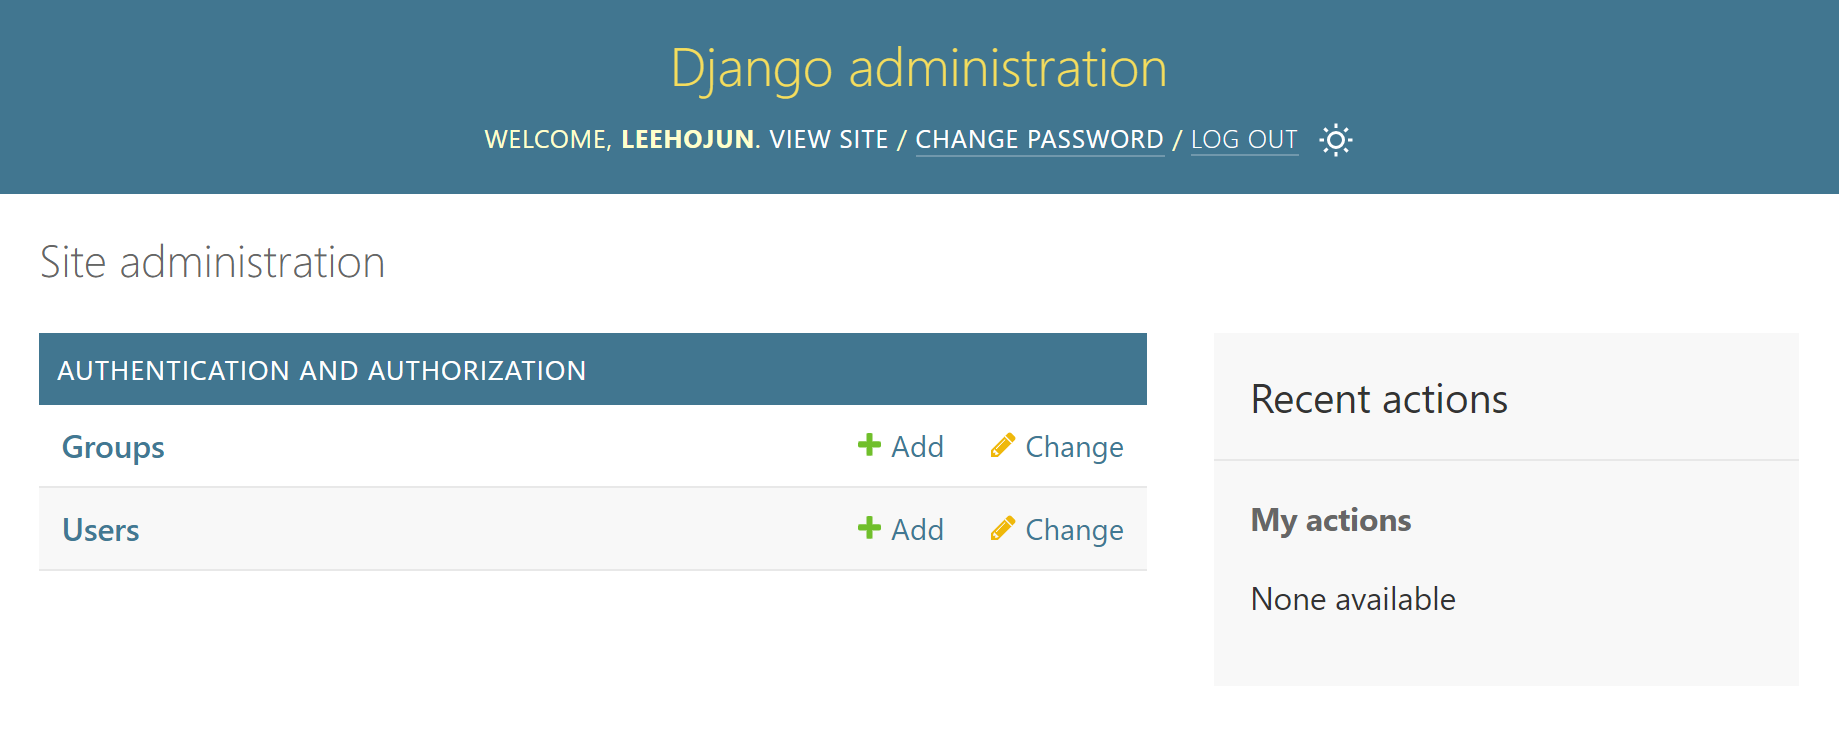
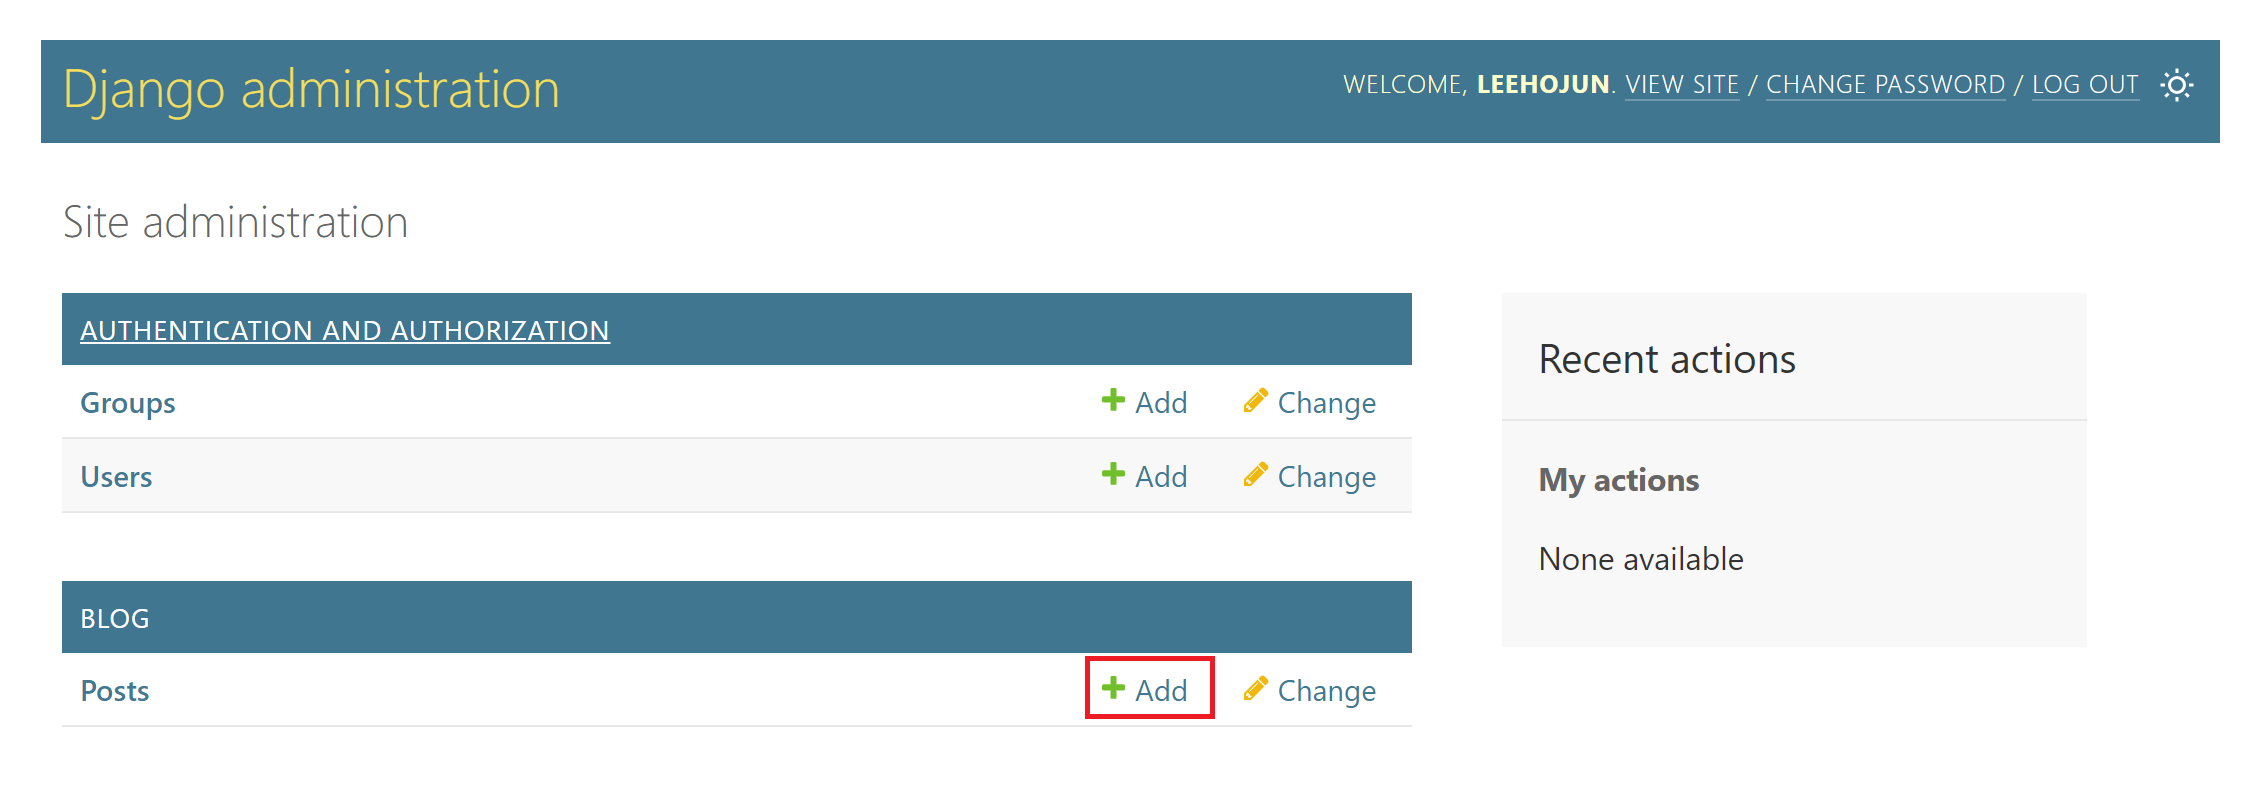
📝django 베이스캠프 ch03-1 내용추가 및 수정 마무리, 이미지 추가

diff --git a/_md/basecamp-django/chapter03/03-1.md b/_md/basecamp-django/chapter03/03-1.md
@@ -1,15 +1,15 @@
 ---
 chapter: Model과 DataBase
-title: 모델(model) 실습
+title: 모델(Model) 실습
 date: 2024-07-22
 ---
-장고에서 모델은 데이터베이스의 구조를 정의하고 데이터를 관리하는 핵심 요소입니다. 모델은 우리가 다루는 데이터의 형태를 파이썬 클래스로 표현한 것으로, 데이터베이스 테이블의 설계도라고 볼 수 있습니다. 모델을 사용하면 복잡한 데이터베이스 작업을 쉽게 할 수 있어요. 글을 저장하거나, 모든 글 목록을 가져오거나, 특정 글을 수정하는 등의 작업을 간단한 파이썬 코드로 할 수 있습니다. 모델 실습을 통해 우리는 데이터의 구조를 정의하고, 이를 데이터베이스와 연결하는 방법을 배우게 됩니다. 이제 실습을 통해 모델을 직접 만들고 사용해보면서, 장고에서 데이터를 어떻게 구조화하고 관리하는지 알아봅시다.
+장고에서 **모델**(Model)은 데이터베이스의 구조를 정의하고 데이터를 관리하는 핵심 요소입니다. 
+모델은 우리가 다루는 데이터를 파이썬 클래스로 표현한 것으로, 데이터베이스 테이블의 설계도라고 볼 수 있습니다.
+모델을 사용하면 복잡한 데이터베이스 작업을 쉽게 할 수 있습니다. 글을 저장하거나, 모든 글 목록을 가져오거나, 특정 글을 수정하는 등의 작업을 간단한 파이썬 코드로 할 수 있습니다. 모델 실습을 통해 우리는 데이터의 구조를 정의하고, 이를 데이터베이스와 연결하는 방법을 배우게 됩니다. 이제 실습으로 모델을 직접 만들고 사용해 보면서, 장고에서 데이터를 어떻게 구조화하고 관리하는지 알아봅시다.
 
 # 1. 개발 환경 설정
 
-개발 환경 설정이 익숙해지셨다면, 아래 코드를 이용해서 단시간에 환경 세팅을 마무리 할 수 있습니다.
-아래 코드를 복사해서, 작업할 폴더의 터미널에 `shift + insert`를 하면 
-자동으로 설치가 완료 됩니다. 마지막 코드에서는 `enter`를 입력해주어야합니다.
+개발 환경 설정이 익숙해지셨다면, 아래 코드를 이용해서 단시간에 환경 설정을 마무리할 수 있습니다. 아래 코드를 복사해서, 작업할 폴더의 터미널에 shift + insert를 하면 자동으로 설치가 완료됩니다. 마지막 코드에서는 enter를 입력해 주어야 합니다.
 
 ```bash
 mkdir db
@@ -22,12 +22,11 @@ python manage.py migrate
 python manage.py startapp main
 python manage.py startapp blog
 ```
-이 실습에서는 mysite폴더 대신 `db` 폴더를 생성하고, `pillow` 라이브러리를 추가합니다. 
-`pillow`는 이 실습에 포함되어 있는 이미지 데이터를 다루기 위해서 필요한 라이브러리 입니다.
-위 코드를 통해서 앱을 생성하는 것까지 완료 할 수 있습니다.
+이 실습에서는 mysite 폴더 대신 `db` 폴더를 생성하고, `pillow` 라이브러리를 추가합니다. 
+`pillow`는 이 실습에 포함되어 있는 이미지 데이터를 다루기 위해서 필요한 라이브러리입니다.
+위 코드를 통해서 앱을 생성하는 것까지 완료할 수 있습니다.
 
 # 2. 설정 파일 수정
-
 `tutorialdjango/settings.py` 파일을 열고 `ALLOWED_HOSTS`, `INSTALLED_APPS`를 수정해줍니다.
 
 ```python
@@ -45,7 +44,7 @@ INSTALLED_APPS = [
 'blog/'
 'blog/<int:pk>/'
 ```
-위와 같은 url구조를 위해, 프로젝트 레벨과 앱 레벨의 urls.py 파일을 설정합니다.
+위와 같은 url 구조를 위해, 프로젝트 레벨과 앱 레벨의 urls.py 파일을 설정합니다.
 1. `tutorialdjango/urls.py` 파일을 다음과 같이 수정합니다.
 ```python
 #tutorialdjango > urls.py
@@ -59,7 +58,7 @@ urlpatterns = [
     path("blog/", include("blog.urls")),
 ]
 ```
-2. blog앱에 `blog/urls.py` 파일을 생성하고 다음 내용을 추가합니다.
+2. blog 앱에 blog/urls.py 파일을 생성하고 다음 내용을 추가합니다.
 ```python
 # blog > urls.py
 from django.urls import path
@@ -102,7 +101,7 @@ TEMPLATES = [
     },
 ]
 ```
-2. `templates/blog/`폴더를 만들고, blog_list.html와 blog_detail.html 파일을 생성합니다. 각 html파일에 아래 코드를 입력해주세요.
+2. `templates/blog/`폴더를 만들고, blog_list.html와 blog_detail.html파일을 생성합니다. 각 html파일에 아래 코드를 입력해주세요.
 - 블로그 목록 페이지
 ```html
 <!--templates > blog > blog_list.html -->
@@ -137,12 +136,8 @@ from django.db import models
 class Post(models.Model):
     title = models.CharField(max_length=100) #글의 제목 (최대 100자)
     content = models.TextField() #글의 내용
-    main_image = models.ImageField(upload_to='blog/', blank=True, null=True)#메인 이미지 (선택사항)
     created_at = models.DateTimeField(auto_now_add=True)#글 작성 시간 (자동으로 현재 시간 저장)
     updated_at = models.DateTimeField(auto_now=True)#글 수정 시간 (수정할 때마다 자동으로 갱신)
-
-    def __str__(self):
-        return self.title
 ```
 Django에서 모델(Model)은 데이터베이스의 구조를 Python 클래스로 표현한 것입니다. 
 위의 class코드를 데이터베이스의 표로 바꿔보면, 아래와 같습니다.
@@ -175,7 +170,16 @@ Django에서 데이터베이스를 변경할 때는 `makemigrations`와 `migrate
 
 # 8. 관리자 페이지 설정
 Django의 `admin 페이지`는 웹사이트의 데이터와 설정을 관리할 수 있는 내장 인터페이스입니다. 개발자와 관리자가 데이터베이스 내용을 쉽게 조작하고 웹사이트를 효율적으로 관리할 수 있게 해줍니다. 이런 admin 페이지를 사용하기 위해서는 슈퍼유저라는 관리자 계정이 필요합니다. `슈퍼유저(Superuser)`는 Django 프로젝트의 관리자 권한을 가진 특별한 사용자입니다. 슈퍼 유저는 관리자 페이지에 접근할 수 있으며, **데이터베이스의 모든 정보를 조회, 생성, 수정, 삭제할 수 있는 권한**을 갖습니다. 그러니, 우리는 수퍼유저 계정의 **보안에 각별히 주의**해야 하며, 프로젝트 관리자만이 이 계정 정보를 알고 있어야 합니다.
-1. 아래 명령어를 입력해 관리자 계정을 생성합니다.
+
+1. `blog/admin.py` 파일에 다음 내용을 추가해, admin페이지를 수정합니다. admin 페이지에서 Post 모델을 관리할 수 있도록 하는 것입니다.
+```python
+#blog > admin.py
+from django.contrib import admin
+from .models import Post
+
+admin.site.register(Post)
+```
+2. 아래 명령어를 입력해 관리자 계정을 생성합니다.
 ```bash
 python manage.py createsuperuser
 ```
@@ -183,10 +187,49 @@ python manage.py createsuperuser
 `사용자 이름(Username)`, `이메일 주소(Email address)`, `비밀번호(Password)`, `비밀번호 확인(Password(again))`을 입력합니다.
 :::div{.callout}
 비밀번호를 입력할 때 보안을 위해서 화면에 아무것도 표시되지 않습니다. 화면에 뜨지 않더라도 그냥 입력하시면 됩니다. 너무 간단한 비밀번호는 거부될 수 있습니다.
+:::figure
 ::img{alt="" src="/images/basecamp-django/chapter03/01-2.png"}
+::figcaption[관리자 계정 생성 예시]
 :::
-2. `blog/admin.py` 파일에 다음 내용을 추가해, admin페이지를 수정합니다. admin 페이지에서 Post 모델을 관리할 수 있도록 하는 것입니다.
+
+3. 서버를 실행한 후 admin 페이지에 접속해서 방금 생성한 `슈퍼유저 계정`을 이용해 로그인을 합니다.
+4. admin 페이지에서 Add 버튼을 눌러 게시물을 3개 만들어주세요.
+::img{alt="" width="1100" src="/images/basecamp-django/chapter03/01-4.png"}
+5. 우리가 만든 게시글을 목록으로 볼 수 있습니다.
+::img{alt="" src="/images/basecamp-django/chapter03/01-6.png"}
+
+## 8.1 모델 수정
+작성한 게시글 목록을 보면, **목록에 적혀있는 제목들이 우리가 작성한 제목이 아닙니다.** 
+Django는 우리가 작성한 내용들 중에서 어떤 정보를 보여줘야 할지 모릅니다. 그래서 "Post object (1)", "Post object (2)"처럼 의미 없는 이름을 보여줍니다.
+우리가 원하는 건 게시글의 제목을 보는 것입니다. 이때 우리는 `__str__`메서드를 사용할 수 있습니다.
 ```python
+def __str__(self):
+    return self.title
+```
+Django는 게시물 목록을 볼 때 `__str__`메서드를 소환해서, 게시물을 어떻게 보여줄지 결정합니다.
+위 코드는 Django에게 게시글을 목록에 보여줄 때는 `title`을 사용하라고 설정하는 것입니다.
+`self.title` 뿐만 아니라 단순 문자열이나, f-string 등을 사용해 반환하라고 시킬 수 있습니다.
+아래는 수정한 models.py 파일입니다.
+```python
+from django.db import models
+
+class Post(models.Model):
+    title = models.CharField(max_length=100) #글의 제목 (최대 100자)
+    content = models.TextField() #글의 내용
+    created_at = models.DateTimeField(auto_now_add=True)#글 작성 시간 (자동으로 현재 시간 저장)
+    updated_at = models.DateTimeField(auto_now=True)#글 수정 시간 (수정할 때마다 자동으로 갱신)
+
+    def __str__(self):
+        return self.title
+```
+models.py를 수정하면 아래 이미지처럼 원하는 데로 우리가 작성한 제목이 목록에 보입니다.
+::img{alt="" src="/images/basecamp-django/chapter03/01-7.png"}
+
+## 8.2 관리자 페이지 수정
+관리자페이지는 사용자가 원하는 데로, 커스터마이징을 할 수 있습니다.
+아래 코드로 admin.py 파일을 수정해 줍니다.
+```python
+# blog > admin.py
 from django.contrib import admin
 from .models import Post
 
@@ -195,84 +238,84 @@ class PostAdmin(admin.ModelAdmin):
 
 admin.site.register(Post, PostAdmin)
 ```
-3. 서버를 실행한 후 admin 페이지에 접속해서 방금 생성한 슈퍼유저 계정을 이용해 로그인을 합니다.
-::img{alt="" width="550" src="/images/basecamp-django/chapter03/01-3.png"}
-<!-- admin 페이지 이미지 -->
-4. admin 페이지에서 게시물을 3개 만들어주세요.
-<!-- 게시글 추가 이미지 -->
+기존 게시글 목록에서는 제목만 볼 수 있었습니다. 하지만 위 코드로 수정하게 되면, 제목뿐만이 아니라, 게시물 번호, 작성날짜, 수정날짜를 목록에서 볼 수 있습니다.
+각 코드에 대해서 간단히 설명하면,
+1. `PostAdmin`이라는 커스텀 관리자 클래스를 정의합니다. `admin.ModelAdmin`을 상속받아 Django의 기본 관리 기능을 그대로 가져오면서, 우리가 원하는 기능을 더할 수 있습니다.
+2. `admin.ModelAdmin`의 `list_display` 속성을 사용합니다. list_display 속성은 관리자 페이지에서 목록에 보여질 필드를 지정할 수 있습니다.
+보여질 필드를 지정했기 때문에 이제 `id`, `title`, `created_at`, `updated_at`을 볼수 있습니다.
+3. `admin.site.register(Post, PostAdmin)`는 django 관리자 사이트에 `Post`모델을 등록하고, 이 모델에 대한 설정을 `PostAdmin` 클래스로 사용하라고 지정하는 것입니다.
 
-# 9. 기능 추가
+아래는 위의 과정을 간단하게 시각화 한 것입니다.
+::img{alt="" src="/images/basecamp-django/chapter03/01-8.png"}
+`admin.ModelAdmin(상속받은 기본 클래스)`과 `list_display(속성 커스텀 설정)`가 결합되어 `PostAdmin`을 만듭니다.
+`admin.site.register`함수를 통해 `Post`모델과 `PostAdmin`클래스가 결합되어 admin페이지로 보내집니다.        
+::img{alt="" src="/images/basecamp-django/chapter03/01-9.png"}
+코드를 수정했을 때 보여지는 화면입니다. ID와 제목, 생성날짜와 수정날짜가 보이는 것을 확인할 수 있습니다.
 
-## 9.1 게시물 생성
-urls.py와 views.py를 수정하여 게시물 생성 기능을 추가합니다.
+
+# 9. 모델 사용하기
+모델의 내용을 템플릿에서 보여줄 수 있게 View와 템플릿을 수정합니다.
+- blog > view.py
 ```python
-#blog > urls.py
-path("create/<str:title>/", views.blog_create, name="blog_create"),
-```
-```python
-#blog > views.py
-def blog_create(request, title):
-    contents = f"hello world {title}"
-    Post.objects.create(title=title, content=contents)
-    return redirect("blog_list")
-```
-## 9.2 게시물 삭제
-urls.py와 views.py를 수정하여 게시물 삭제 기능을 추가합니다.
-```python
-# blog > urls.py
-path("delete/<int:pk>/", views.blog_delete, name="blog_delete"),
-```
-```python
-#blog > views.py
-def blog_delete(request, pk):
-    post = Post.objects.get(pk=pk)
-    post.delete()
-    return redirect("blog_list")
-```
-## 9.3 이미지 업로드
-models.py에 이미지 필드를 추가하고, settings.py와 urls.py를 수정합니다.
-```python
-#blog > models.py
-main_image = models.ImageField(upload_to='blog/', blank=True, null=True)
-```
-```python
-#tutorialdjango > settings.py
-MEDIA_URL = "/media/"
-MEDIA_ROOT = BASE_DIR / "media"
-```
-```python
-# tutorialdjango > urls.py
-from django.conf import settings
-from django.conf.urls.static import static
-urlpatterns += static(settings.MEDIA_URL, document_root=settings.MEDIA_ROOT)
-```
-blog_detail.html에 이미지 표시 로직을 추가하고, blog_list.html에 검색 폼을 추가합니다.
-```html
-<!-- blog_detail.html -->
-{% if object.main_image %}
-    <img src="{{ object.main_image.url }}" alt="">
-{% endif %}
-```
-```html
-<!-- blog_list.html -->
-<form action="" method="get">
-    <input name="q" type="search">
-    <button type="submit">검색</button>
-</form>
-```
-## 9.4 검색 기능
-views.py의 blog_list 함수에 검색 로직을 추가합니다.
-```python
-#blog > views.py
-from django.db.models import Q
+from django.shortcuts import render
+from .models import Post #사용할 모델을 불러오는 코드입니다.
+
+
 def blog_list(request):
-    if request.GET.get("q"):
-        q = request.GET.get("q")
-        blogs = Post.objects.filter(
-            Q(title__icontains=q) | Q(content__icontains=q)
-        ).distinct()
-    else:
-        blogs = Post.objects.all()
-    context = {"object_list": blogs}
+    blogs = Post.objects.all()
+    context = {
+        "object_list": blogs,
+    }
     return render(request, "blog/blog_list.html", context)
+
+def blog_detail(request, pk):
+    blogs = Post.objects.get(pk=pk)
+    context = {
+        "object": blogs,
+    }
+    return render(request, "blog/blog_detail.html", context)
 ```
+- templates > blog > blog_list.html
+```html
+<!DOCTYPE html>
+<html lang="ko">
+<head>
+    <meta charset="UTF-8">
+</head>
+<body>
+    <h1>게시판</h1>
+    <ul>
+        {% for post in object_list %}
+            <li>
+                <a href="{% url 'blog_detail' post.pk %}">{{ post.title }}</a>
+            </li>
+        {% endfor %}
+    </ul>
+    <p>{% url 'blog_list' %}</p>
+    <p>{% url 'blog_detail' 1 %}</p>
+</body>
+</html>
+```
+- templates > blog > blog_detail.html
+```html
+<!DOCTYPE html>
+<html lang="ko">
+<head>
+    <title>blog_detail</title>
+</head>
+<body>
+    <h1>blog_detail</h1>
+    <h2>{{ object.title }}</h2>
+    <p>{{ object.content }}</p>
+    <p>{{ object.created_at }}</p>
+    <p>{{ object.updated_at }}</p>
+    <a href="{% url 'blog_list' %}">목록</a>
+</body>
+</html>
+```
+뷰 코드를 수정하면서 우리는 다음과 같은 새로운 코드를 보게 됩니다.
+```python
+blogs = Post.objects.all()
+blogs = Post.objects.get(pk=pk)
+```
+이 코드는 장고에서 사용하는 ORM쿼리 입니다. ORM 쿼리에 대해서는 다음 장에서 알아보도록 하겠습니다.

diff --git a/_md/basecamp-django/chapter02/02-5.md b/_md/basecamp-django/chapter02/02-5.md
@@ -4,10 +4,8 @@ title: 템플릿 태그
 date: 2024-07-11
 ---
 # 1. 템플릿 태그
-Django의 템플릿 태그를 사용하면 개발자들이 HTML 페이지에 파이썬 코드의 기능을 쉽게 추가할 수 있어, 동적이고 상호작용이 가능한 웹사이트를 만들 수 있습니다. 템플릿 태그의 주요 장점은 실시간으로 변하는 정보를 웹페이지에 표시할 수 있고, 코드를 재사용하기 쉬우며, 복잡한 로직을 간단하게 구현할 수 있다는 것입니다. 또한 코드를 읽기 쉽게 만들어 팀 협업에 도움을 주고, 웹사이트의 보안도 강화합니다. 이런 이유로 템플릿 태그는 Django 웹 개발에서 자주 사용됩니다.
-
+템플릿 태그는 Django에서 HTML 페이지에 파이썬 코드의 기능을 넣을 수 있게 해주는 특별한 표시입니다. 이 태그들은 웹페이지에 변하는 내용을 넣고 싶을 때 사용합니다. 템플릿 태그를 쓰면 코드를 다시 쓰지 않고도 여러 곳에서 사용할 수 있고, 복잡한 로직을 간단하게 표현할 수 있어서 웹사이트를 만들 때 매우 유용합니다. 이제 어떻게 사용할 수 있는지 천천히 알아가봅시다.
 # 2. 기본적인 템플릿 태그 사용법
-
 ## 2.1 변수 출력하기
 
 변수의 값을 출력하려면 `{{ }}` 를 사용합니다.
@@ -56,39 +54,36 @@ Django의 템플릿 태그를 사용하면 개발자들이 HTML 페이지에 파
 ```
 
 # 3. 템플릿 필터
-
 템플릿 필터는 변수의 값을 조정하거나 맞추는 데 사용됩니다.
 
 ## 3.1 linebreaks
-
 텍스트에 줄바꿈을 적용합니다.
-
 ```html
 <p>{{ i.contents |linebreaks }}</p>
 ```
 
 ## 3.2 truncatewords
-
-텍스트를 지정된 단어 수로 자릅니다.
-
+텍스트를 지정된 단어 수로 자릅니다. 공백을 기준으로 합니다.
 ```html
+<!-- INPUT: "Hello, world!" -->
 <p>{{ i.contents|truncatewords:5 }}</p>
+<!-- OUTPUT: "Hello, ..."-->
 ```
 
 ## 3.3 length
-
 문자열이나 리스트의 길이를 반환합니다.
-
 ```html
+<!-- INPUT: "Hello, world!" -->
 <p>{{ i.contents|length }}</p>
+<!-- OUTPUT: 13 -->
 ```
 
 ## 3.4 slice
-
 문자열이나 리스트의 일부를 잘라냅니다.
-
 ```html
-<p>{{ i.contents|slice:":10" }}</p>
+<!-- INPUT: "Hello, world!" -->
+<p>{{ i.contents|slice:":5" }}</p>
+<!-- OUTPUT: "Hello" -->
 ```
 
 # 4. 템플릿 태그의 고급 기능
@@ -134,15 +129,15 @@ Django의 템플릿 태그를 사용하면 개발자들이 HTML 페이지에 파
 <p>It is {% now "Y/M/D" %}</p>
 <!-- 2023/10/21 -->
 ```
-- Y: 4자리 연도 (예: 2023)        
-- M: 월을 01-12로 표시        
-- D: 일을 01-31로 표시        
-- F: 월 이름 전체 (예: January)       
-- j: 일을 1-31로 표시 (앞에 0 없음)       
-- S: 일의 서수 접미사 (st, nd, rd, th)        
-- H: 24시간 형식의 시간 (00-23)       
-- i: 분 (00-59)
+- **Y**: 4자리 연도 (예: 2023)        
+- **M**: 월을 01-12로 표시        
+- **D**: 일을 01-31로 표시        
+- **F**: 월 이름 전체 (예: January)       
+- **j**: 일을 1-31로 표시 (앞에 0 없음)       
+- **S**: 일의 서수 접미사 (st, nd, rd, th)        
+- **H**: 24시간 형식의 시간 (00-23)       
+- **i**: 분 (00-59)
 
+# 5. 참고 사항
 템플릿 태그의 추가적인 내용은 아래 공식 문서를 참고해 주세요.
-
 ::a[Django 공식 문서- template tag]{class='btn-link' href="https://docs.djangoproject.com/ko/5.0/ref/templates/builtins/" target="\_blank"}

diff --git a/_md/basecamp-django/chapter03/03-2.md b/_md/basecamp-django/chapter03/03-2.md
@@ -5,7 +5,7 @@ date: 2024-07-23
 ---
 # 1. Django ORM QuerySet
 
-Django의 `ORM`은 개발자가 데이터베이스 쿼리를 쉽게 다룰 수 있게 해주는 도구입니다. 여기서 `쿼리`는 데이터베이스에 하는 질문입니다. 우리가 쿼리로 질문을 하면, 데이터베이스는 그에 대한 답을 줍니다. 예를 들어, "모든 상품의 이름을 알려줘"라고 물으면 데이터베이스는 상품 이름 목록을 답으로 줍니다.
+Django의 `ORM`은 개발자가 **데이터베이스 쿼리**를 쉽게 다룰 수 있게 해주는 도구입니다. 여기서 `쿼리`는 데이터베이스에 하는 질문입니다. 우리가 쿼리로 질문을 하면, 데이터베이스는 그에 대한 답을 줍니다. 예를 들어, "모든 상품의 이름을 알려줘"라고 물으면 데이터베이스는 상품 이름 목록을 답으로 줍니다.
 ORM은 우리가 만든 모델 클래스와 DB에 생성된 테이블을 자동으로 연관 지어 줍니다. 또, SQL 대신 간단한 Python 코드를 사용하여 쿼리를 만들고 실행할 수 있어, 데이터를 저장하고 불러오는 등의 데이터베이스 조작이 편리합니다. ORM은 주로 view에서 사용됩니다. 실습을 통해 django의 ORM 쿼리에 대해 알아봅시다.
 
 # 2. ORM 실습 준비
